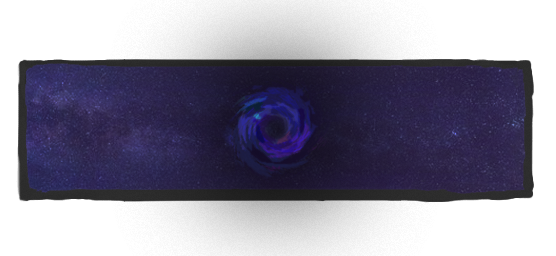
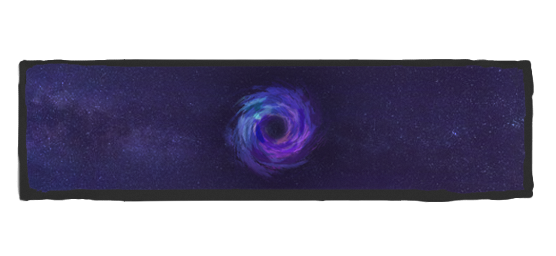
remove dumb screen

Changed region(s): [[0.3363, 0.0312, 0.6727, 0.25], [0.3975, 0.3125, 0.5809, 0.6875], [0.3058, 0.7812, 0.6727, 0.9688]]

diff --git a/src/main/kotlin/com/blanktheevil/infinitespire/patches/screens/TopPanelInputUpdateSuppressor.kt b/src/main/kotlin/com/blanktheevil/infinitespire/patches/screens/TopPanelInputUpdateSuppressor.kt
@@ -16,8 +16,7 @@ object TopPanelInputUpdateSuppressor {
   fun suppressInputs(): SpireReturn<Void> {
     return if (
       InfiniteSpire.questLogScreen.isOpen() ||
-      InfiniteSpire.powerSelectScreen.show ||
-      InfiniteSpire.endlessScreen.show
+      InfiniteSpire.powerSelectScreen.show
     ) {
       SpireReturn.Return(null)
     } else {

diff --git a/src/main/kotlin/com/blanktheevil/infinitespire/ui/campfire/VoidOption.kt b/src/main/kotlin/com/blanktheevil/infinitespire/ui/campfire/VoidOption.kt
@@ -74,7 +74,7 @@ class VoidOption : SpireElement, SpireClickable {
     sb.color = Color.WHITE.cpy()
     sb.draw(
       Textures.ui.get("campfire/voidoption.png"),
-      hb.cX.minus(IMG_W.div(2f)).minus(11f.scale().times(scale)),
+      hb.cX.minus(IMG_W.div(2f)),
       hb.cY.minus(IMG_H.div(2f)),
       IMG_W.div(2f),
       IMG_H.div(2f),

diff --git a/src/main/kotlin/com/blanktheevil/infinitespire/patches/screens/ScreensRenderPatch.kt b/src/main/kotlin/com/blanktheevil/infinitespire/patches/screens/ScreensRenderPatch.kt
@@ -13,7 +13,6 @@ object ScreensRenderPatch {
   @JvmStatic
   fun run(dungeon: AbstractDungeon, sb: SpriteBatch) {
     InfiniteSpire.powerSelectScreen.render(sb)
-    InfiniteSpire.endlessScreen.render(sb)
     InfiniteSpire.questLogScreen.render(sb)
   }
 }

diff --git a/src/main/kotlin/com/blanktheevil/infinitespire/patches/screens/ScreensUpdatePatch.kt b/src/main/kotlin/com/blanktheevil/infinitespire/patches/screens/ScreensUpdatePatch.kt
@@ -12,7 +12,6 @@ object ScreensUpdatePatch {
   @JvmStatic
   fun run(dungeon: AbstractDungeon) {
     InfiniteSpire.powerSelectScreen.update()
-    InfiniteSpire.endlessScreen.update()
     InfiniteSpire.questLogScreen.update()
   }
 }
